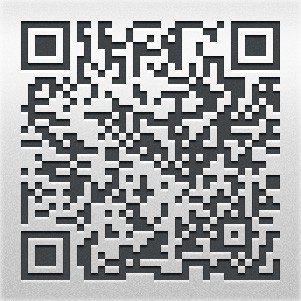
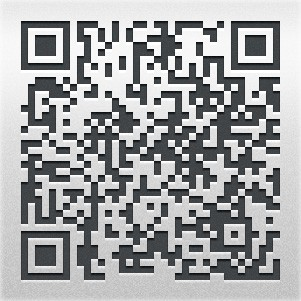
add interface

diff --git a/templates/index.html b/templates/index.html
@@ -1,5 +1,34 @@
 <html>
+    <script type="text/css">
+<script type="text/javascript" src="http://ajax.microsoft.com/ajax/jquery
+/jquery-1.4.min.js"></script>
+     img{
+         position:absolute;
+         left:100px;
+         top:150px
+     }
+    </script>
     <body>
-        {{ QRImg }}
+        <img id="qrcode" width="500px" height="500px" />
+        
     </body>
+    <script>
+     (function() {
+         var qcode_src = location.origin + '/showLogin?' + new Date().getTime();
+         document.getElementById('qrcode').src = qcode_src
+
+         uuid = {{uuid}}
+         console.log(uuid)
+         $.get('isLogin',function(data, status){
+             alert("Data:" + data + "\n status :" + status);
+         })
+
+         $.get('isScan' + uuid, function(data, status){
+
+
+         })
+         
+           
+     })()
+    </script>
 </html>

diff --git a/templates/.#index.html b/templates/.#index.html
@@ -1,0 +1,1 @@
+rick@rick.22793:1497322497

diff --git a/app.py b/app.py
@@ -1,0 +1,213 @@
+#!/usr/bin/env python
+# coding=utf-8
+import os
+import urllib.request, urllib.parse, urllib.error
+import re
+import http.cookiejar
+import time
+import xml.dom.minidom
+import json
+import sys
+import math
+import subprocess
+import json
+import threading
+import logging
+from flask import Flask
+from io import * 
+from io import * 
+from flask import render_template
+from flask import send_file
+
+
+app = Flask(__name__)
+DEBUG = True
+
+QRImageName = './qrcode.jpg'
+QRImagePath = os.getcwd() + '/qrcode.jpg' 
+
+
+@app.route('/index')
+def index():
+    return render_template('index.html')
+
+@app.route('/showLogin')
+def showLogin():
+    opener = urllib.request.build_opener(urllib.request.HTTPCookieProcessor(http.cookiejar.CookieJar()))
+    urllib.request.install_opener(opener)
+
+    if not getUUID():
+        return 'getUUID failed'
+    getQRImage()
+    return send_file(QRImageName, mimetype='image/jpg')
+
+def getQRImage():
+    url = 'https://login.weixin.qq.com/qrcode/' + uuid
+    params = {
+        't': 'webwx',
+        '_': int(time.time()),
+    }
+    request = urllib.request.Request(url = url, data = urllib.parse.urlencode(params).encode(encoding = 'UTF-8'))
+    response = urllib.request.urlopen(request)
+
+    f = open(QRImagePath, 'wb')
+    f.write(response.read())
+    f.close()
+
+def getUUID():
+    global uuid
+
+    url = 'https://login.weixin.qq.com/jslogin'
+    params = {
+        'appid': 'wx782c26e4c19acffb',
+        'fun': 'new',
+        'lang': 'zh_CN',
+        '_': int(time.time()),
+    }
+    
+    request = urllib.request.Request(url=url, data=urllib.parse.urlencode(params).encode(encoding='UTF8'))
+    response = urllib.request.urlopen(request)
+    data = response.read()
+    print(data)
+    # print data
+    # window.QRLogin.code = 200; window.QRLogin.uuid = "oZwt_bFfRg==";
+    regx = r'window.QRLogin.code = (\d+); window.QRLogin.uuid = "(\S+?)"'
+    pm = re.search(regx, str(data))
+
+    code = pm.group(1)
+    uuid = pm.group(2)
+
+    if code == '200':
+        return True
+
+    return False
+
+
+@app.route('/isScan')
+def isScan():
+    url = 'https://login.weixin.qq.com/cgi-bin/mmwebwx-bin/login?tip=%s&uuid=%s&_=%s' % (tip, uuid, int(time.time()))
+
+    request = urllib.request.Request(url=url)
+    response = urllib.request.urlopen(request)
+    data = response.read()
+
+    regx = r'window.code=(\d+);'
+    pm = re.search(regx, str(data))
+
+    code = pm.group(1)
+
+    if code == '201':
+        return '成功扫描,请在手机上点击确认以登录'
+
+    elif code == '200':
+        print(u'login ...')
+        regx = r'window.redirect_uri="(\S+?)";'
+        pm = re.search(regx, str(data))
+        redirect_uri = pm.group(1) + '&fun=new'
+        print(redirect_uri)
+        base_uri = redirect_uri[:redirect_uri.rfind('/')]
+        print(base_uri)
+    elif code == '408':
+        pass
+    return code
+
+@app.route('/isLogin')
+def isLogin(redirect_uri):
+    global skey, wxsid, wxuin, pass_ticket, BaseRequest
+
+    request = urllib.request.Request(url=redirect_uri)
+    response = urllib.request.urlopen(request)
+    data = response.read()
+
+    # print data
+
+    '''
+		<error>
+			<ret>0</ret>
+			<message>OK</message>
+			<skey>xxx</skey>
+			<wxsid>xxx</wxsid>
+			<wxuin>xxx</wxuin>
+			<pass_ticket>xxx</pass_ticket>
+			<isgrayscale>1</isgrayscale>
+		</error>
+	'''
+
+    doc = xml.dom.minidom.parseString(data)
+    root = doc.documentElement
+
+    for node in root.childNodes:
+        if node.nodeName == 'skey':
+            skey = node.childNodes[0].data
+        elif node.nodeName == 'wxsid':
+            wxsid = node.childNodes[0].data
+        elif node.nodeName == 'wxuin':
+            wxuin = node.childNodes[0].data
+        elif node.nodeName == 'pass_ticket':
+            pass_ticket = node.childNodes[0].data
+
+    # print 'skey: %s, wxsid: %s, wxuin: %s, pass_ticket: %s' % (skey, wxsid, wxuin, pass_ticket)
+
+    if skey == '' or wxsid == '' or wxuin == '' or pass_ticket == '':
+        return False
+
+    BaseRequest = {
+        'Uin': int(wxuin),
+        'Sid': wxsid,
+        'Skey': skey,
+        'DeviceID': deviceId,
+    }
+
+    return json.dumps(BaseRequest) 
+
+@app.route('/webwxinit')
+def webwxinit(base_uri,BaseRequest):
+    url = base_uri + '/webwxinit?pass_ticket=%s&skey=%s&r=%s' % (pass_ticket, skey, int(time.time()))
+    params = {
+        'BaseRequest': BaseRequest
+    }
+
+    request = urllib.request.Request(url=url, data=json.dumps(params).encode('utf-8'))
+    request.add_header('ContentType', 'application/json; charset=UTF-8')
+    response = urllib.request.urlopen(request)
+    data = response.read()
+
+    if DEBUG:
+        f = open(os.getcwd() + '/webwxinit.json', 'wb')
+        f.write(data)
+        f.close()
+
+    # print data
+
+    global ContactList, My
+    dic = json.loads(data.decode())
+    ContactList = dic['ContactList']
+    My = dic['User']
+
+    ErrMsg = dic['BaseResponse']['ErrMsg']
+    # if len(ErrMsg) > 0:
+    # 	print ErrMsg
+
+    Ret = dic['BaseResponse']['Ret']
+    if Ret != 0:
+        return False
+
+    #获得用户与服务器同步的信息
+    #SyncKey = dic['SyncKey']
+
+    return json.dumps(ContactList) 
+
+@app.route('/sendMsg/<message>/<user_name>')
+def sendMsg():
+    t = threading.Thread(target = sendMsg, args=(My['UserName'], userName, message,500))
+    t.start()
+    t.join()
+    return 200
+
+if __name__ == '__main__':
+    app.debug = True
+    app.run()
+
+
+
+

diff --git a/.#app.py b/.#app.py
@@ -1,0 +1,1 @@
+rick@rick.22793:1497322497
